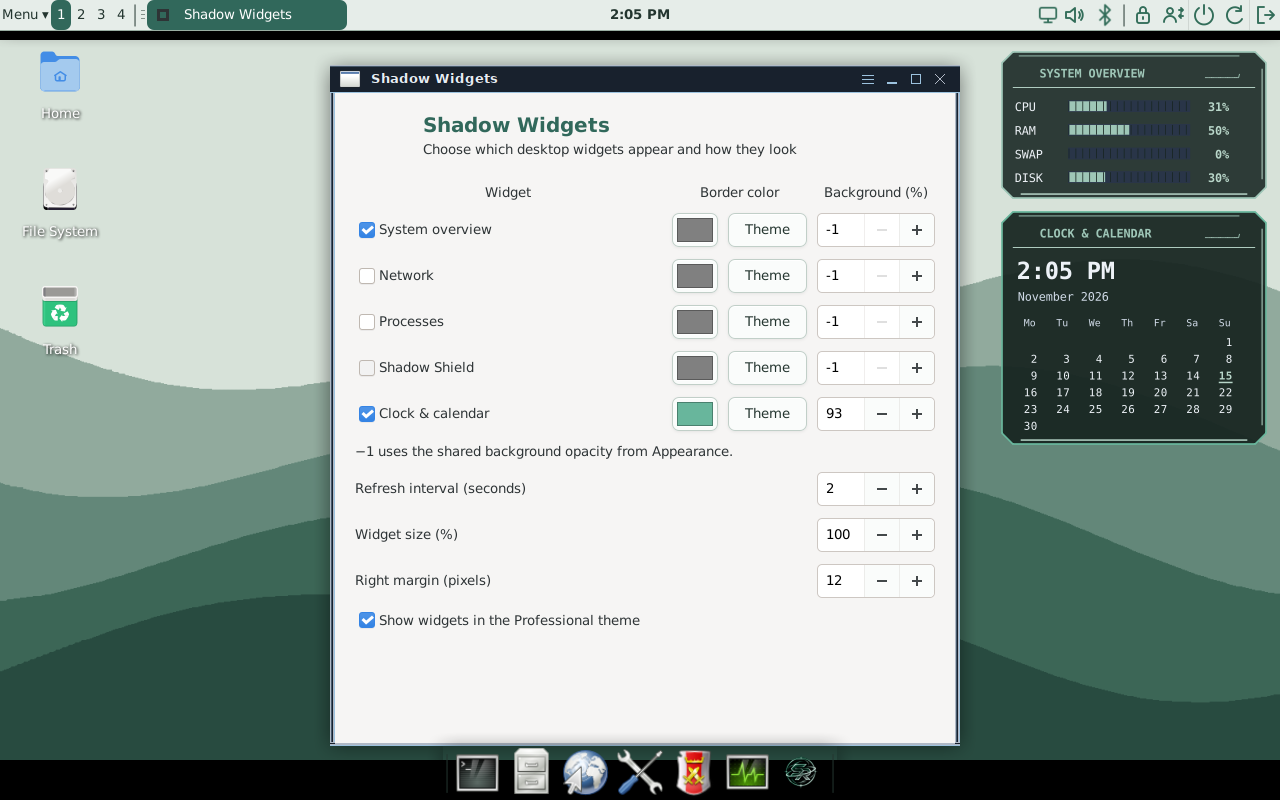
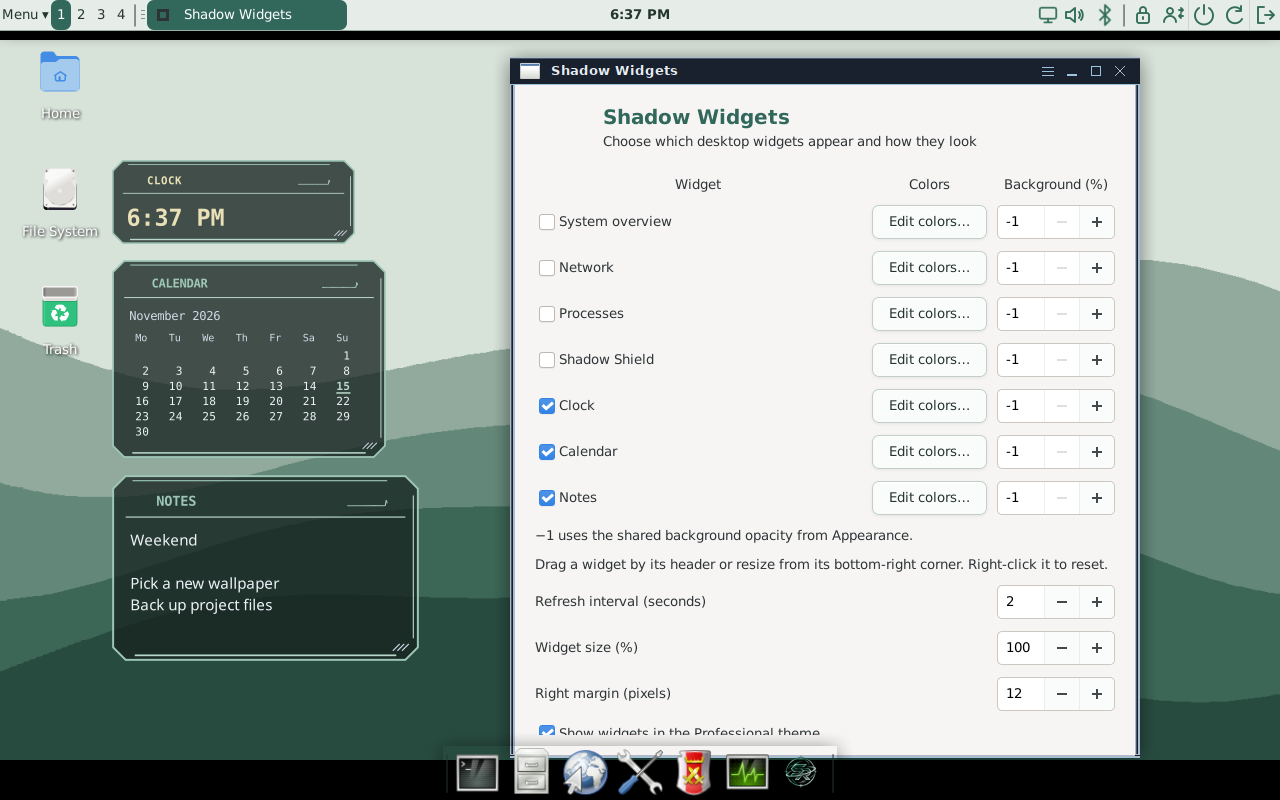
Refresh desktop and wallpaper galleries

diff --git a/website/index.html b/website/index.html
@@ -4,7 +4,6 @@
 </head><body>
 <main><img class="brand" src="https://raw.githubusercontent.com/AstraShadowsss/ShadowRealm-OS/main/branding/banner-neon.png" alt="ShadowRealm-OS SR logo and wordmark"><p class="badge">2026.11 beta 1 · AMD64</p><h1>A familiar Linux desktop with a style of its own.</h1><p class="lede">Built on Debian 13 and Xfce, ShadowRealm-OS brings applications, desktop controls and live status panels into one coordinated workspace. Try it from a USB drive or virtual machine before installing.</p><nav class="buttons"><a class="button primary" href="https://sourceforge.net/projects/shadowrealm-os/files/2026.11-beta1/ShadowRealm-OS-2026.11-beta1-r4-amd64.iso/download">Download the beta ISO</a><a class="button" href="https://astrashadowsss.github.io/ShadowRealm-OS/docs/installation.html">Installation guide</a><a class="button" href="https://github.com/AstraShadowsss/ShadowRealm-OS">Source and documentation</a><a class="button" href="https://shadowrealm-os.sourceforge.io/apt/">Updates &amp; Packages</a></nav><img class="screen" src="https://raw.githubusercontent.com/AstraShadowsss/ShadowRealm-OS/main/screenshots/desktop.png" alt="Neon desktop with panel, dock and four local widgets">
 <section class="grid"><article class="card"><h2>Make it yours</h2><p>Eight coordinated styles, editable dock shortcuts, independent wallpapers and configurable background transparency. Native third-party application icons stay recognizable.</p></article><article class="card"><h2>Everyday controls</h2><p>Network, audio, Bluetooth, accounts, appearance and software tools. The four desktop widgets show resources, traffic, processes and privacy-service status locally.</p></article><article class="card"><h2>Updates you control</h2><p>Debian and configured vendors provide their updates. A signed repository supplies custom desktop components and nine offline games. Software &amp; Updates shows available APT updates; Flatpak updates are separate.</p></article></section>
-<h2>A closer look</h2><img class="screen" src="https://raw.githubusercontent.com/AstraShadowsss/ShadowRealm-OS/main/screenshots/widgets.png" alt="Enlarged resource, network, process and Shadow Shield panels"><p><a href="https://astrashadowsss.github.io/ShadowRealm-OS/docs/widgets.html">What the widget readings mean</a></p><img class="screen" src="https://raw.githubusercontent.com/AstraShadowsss/ShadowRealm-OS/main/screenshots/wallpaper-styles.png" alt="Different coordinated wallpaper collections"><img class="screen" src="https://raw.githubusercontent.com/AstraShadowsss/ShadowRealm-OS/main/screenshots/system-tools.png" alt="Network, Shadow Shield and Software &amp; Updates controls">
-<img class="screen" src="https://raw.githubusercontent.com/AstraShadowsss/ShadowRealm-OS/main/screenshots/walking-theme-styles.png" alt="Walking-figure wallpapers with the current SR jacket emblem"><h2>Professional desktop</h2><img class="screen" src="https://raw.githubusercontent.com/AstraShadowsss/ShadowRealm-OS/main/screenshots/widget-settings-professional.png" alt="Professional theme showing widget colors, opacity and the optional clock and calendar" loading="lazy"><h2>Before you install</h2><p>This is a public beta. Back up your files, check the ISO checksum and test hardware from the live desktop. BIOS and UEFI installation paths are included; Secure Boot and dual-boot setups are not certified for this release. Optional disk encryption is configured during installation.</p><nav class="buttons"><a href="https://sourceforge.net/projects/shadowrealm-os/files/2026.11-beta1/SHA256SUMS/download">Checksums</a><a href="https://astrashadowsss.github.io/ShadowRealm-OS/docs/system-requirements.html">System requirements</a><a href="https://astrashadowsss.github.io/ShadowRealm-OS/docs/validation.html">Validation and limits</a><a href="https://astrashadowsss.github.io/ShadowRealm-OS/docs/roadmap.html">Roadmap</a><a href="https://github.com/AstraShadowsss/ShadowRealm-OS/issues">Report an issue</a></nav>
+<h2>Wallpaper collection</h2><img class="screen" src="https://raw.githubusercontent.com/AstraShadowsss/ShadowRealm-OS/main/screenshots/wallpaper-styles.png" alt="Red and Black, Black and Blue, Neon, and Hacker with four different wallpapers" loading="lazy"><h2>Seated City</h2><img class="screen" src="https://raw.githubusercontent.com/AstraShadowsss/ShadowRealm-OS/main/screenshots/seated-theme-styles.png" alt="Six colors of the Seated City wallpaper" loading="lazy"><h2>Control Center</h2><img class="screen" src="https://raw.githubusercontent.com/AstraShadowsss/ShadowRealm-OS/main/screenshots/control-center-neon.png" alt="Searchable Control Center in Neon" loading="lazy"><h2>Professional desktop</h2><img class="screen" src="https://raw.githubusercontent.com/AstraShadowsss/ShadowRealm-OS/main/screenshots/widget-settings-professional.png" alt="Professional theme showing separate Clock, Calendar and Notes widgets" loading="lazy"><h2>System tools</h2><img class="screen" src="https://raw.githubusercontent.com/AstraShadowsss/ShadowRealm-OS/main/screenshots/system-tools.png" alt="Network, Shadow Shield and Software &amp; Updates controls" loading="lazy"><p><a href="https://astrashadowsss.github.io/ShadowRealm-OS/docs/widgets.html">Desktop widgets guide</a></p><h2>Before you install</h2><p>This is a public beta. Back up your files, check the ISO checksum and test hardware from the live desktop. BIOS and UEFI installation paths are included; Secure Boot and dual-boot setups are not certified for this release. Optional disk encryption is configured during installation.</p><nav class="buttons"><a href="https://sourceforge.net/projects/shadowrealm-os/files/2026.11-beta1/SHA256SUMS/download">Checksums</a><a href="https://astrashadowsss.github.io/ShadowRealm-OS/docs/system-requirements.html">System requirements</a><a href="https://astrashadowsss.github.io/ShadowRealm-OS/docs/validation.html">Validation and limits</a><a href="https://astrashadowsss.github.io/ShadowRealm-OS/docs/roadmap.html">Roadmap</a><a href="https://github.com/AstraShadowsss/ShadowRealm-OS/issues">Report an issue</a></nav>
 <footer>Original project work: MIT. Bundled software, libraries, firmware, fonts and adapted artwork retain their own licenses. <a href="https://sourceforge.net/projects/shadowrealm-os/files/2026.11-beta1/">ISO, checksums and license notices</a>. <a href="https://sourceforge.net/projects/shadowrealm-os/files/2026.11-beta1/Sources/">Custom source and source-download guide</a>. <a href="https://github.com/AstraShadowsss/ShadowRealm-OS/releases/tag/2026.11-beta1-r2">Third-party source attachments on GitHub</a>. ShadowRealm-OS is an independent Debian-based project.</footer></main>
 </body></html>

diff --git a/docs/roadmap.md b/docs/roadmap.md
@@ -8,12 +8,12 @@ ShadowRealm-OS is a Debian 13 and Xfce desktop with a recognizable visual identi
 - Run a clean r4 installation and check first login, disk unlock when encrypted, graphical startup, Terminal, updates and normal shutdown. Record exact images and environments.
 - Make first login consistently show the intended desktop. Test the display, audio, Wi-Fi, Bluetooth and suspend behavior on representative hardware. Verify Secure Boot separately.
 
-## Control Center and professional theme
+## Desktop and system controls
 
-- Give the Control Center clear sections for Appearance, Desktop, Devices, Network, Privacy & Security, Accounts, and Software & Updates. Use the existing tools and eliminate duplicate routes where they add confusion.
+Desktop 0.2.11 includes searchable settings, the updated Professional theme, movable and resizable widgets, independent Clock and Calendar, saved Notes, and a dock auto-fit control. These are available through signed APT updates.
 - Show current state at the point of action. Explain whether Bluetooth is off or an adapter is missing and why an administrative action failed. Provide visible keyboard focus, readable toggle labels, and clear confirmation for changes that can interrupt connectivity.
-- Use a consistent layout across Professional and Neon. Refine spacing, type, selection and focus states in Professional. Check small displays and larger text, then check the same screens in both themes.
-- Complete dock editing and widget customization. Keep desktop shortcuts reorderable and removable. Add optional clock and calendar displays before externally backed weather or search.
+- Check the settings on smaller displays and with larger text. Carry the same focus and status conventions into the remaining system windows.
+- Add direct drag-and-drop dock editing. Keep all launchers removable. Add local search and make any online weather lookups optional.
 
 ## Transparency and optional tools
 
@@ -29,10 +29,9 @@ Disposable sessions and stronger isolation are longer-term research. They need t
 | Work | First deliverable | How to check it |
 | --- | --- | --- |
 | First login | Apply the branded wallpaper early and show a clear state while optional setup finishes | Time a first login and a later login on a fresh account |
-| Control Center | Redesign the landing page and carry over the existing settings | Find common tasks by keyboard and mouse in Professional and Neon at small and large scales |
+| Control Center | Check keyboard navigation, smaller displays, and large text across themes | Find and open common tools without clipped controls |
 | Dock | Drag launchers to reorder them in place. Drop shortcuts from the desktop or Applications menu at the desired position. Expand the dock as items are added. | Verify drop placement, launching, removal, and saved order across logins and upgrades |
-| Widgets | Add per-widget colors, readable scaling, placement and opacity controls | Text stays legible and independently configurable across themes |
-| Clock and calendar | Add optional desktop widgets that use local time and the existing calendar workflow | Check time zone, date rollover, sizing and keyboard access |
+| Widgets | Check multi-monitor placement, time-zone changes, and large text | Widgets remain reachable after monitor changes, and user layouts and notes persist |
 | Weather and search | Add a manual weather location and local app search, then evaluate file and online providers | Show which requests leave the device and allow the user to turn them off |
 | First-run transparency | Summarize installed software, services and update sources with links to detail | Users can dismiss the screen, reopen it, and reach the relevant controls |
 | Privacy controls | Audit outbound connections and add clear DNS, MAC randomization, permission and metadata controls where useful | Record what changes per connection, after reconnect and after reboot |

diff --git a/README.md b/README.md
@@ -35,51 +35,39 @@ The AMD64 ISO starts a live desktop so you can try it before installing. Open **
 - Customizable login backgrounds, optional original session chimes and three screensaver animations with standard XFCE locking.
 - Nine offline games, including Shadow Pinball, Skull Invaders, Shadow Runner, Circuit Chase, Snake, Shadow Spider Solitaire, Neon Ascent, Neon Breaker and Marble Reactor. Scores and settings stay local.
 
+**Desktop update 0.2.11** is available in Software & Updates. It adds separate Clock and Calendar widgets, local notes and dock auto-fit. [Release notes](CHANGELOG.md)
+
 ## Screenshots
 
-Desktop captures from ShadowRealm-OS, with gameplay and theme galleries below.
+### Wallpaper collection
 
-### Seated City themes
+![Red and Black, Black and Blue, Neon, and Hacker with four different wallpapers](screenshots/wallpaper-styles.png)
 
-![Six styles with the seated-figure wallpaper and Terminal](screenshots/seated-theme-styles.png)
+### Seated City
 
-### Professional
-
-![Professional desktop with Terminal](screenshots/professional.png)
-
-### Games
-
-![The nine games in action](screenshots/games-in-action.png)
-
-### Applications and settings
-
-| Application menu | Control Center |
-| --- | --- |
-| ![Application menu](screenshots/application-menu.png) | ![Control Center](screenshots/control-center.png) |
-
-### Live desktop panels
-
-![The four desktop widgets, enlarged](screenshots/widgets.png)
-
-System Overview shows resource use; Network shows interface traffic; Processes lists running programs; Shadow Shield summarizes firewall and privacy service status. [What each reading means](docs/widgets.md). The source is included so these local tools can be inspected and maintained.
-
-### Network, security and updates
-
-![Network, Shadow Shield and Software & Updates](screenshots/system-tools.png)
+![Six colors of the Seated City wallpaper](screenshots/seated-theme-styles.png)
 
 ### Control Center
 
 ![Searchable Control Center in Neon](screenshots/control-center-neon.png)
 
-![Control Center and desktop in Professional](screenshots/control-center-professional.png)
+![The same Control Center in Professional](screenshots/control-center-professional.png)
 
-![Widget settings and calendar in Professional](screenshots/widget-settings-professional.png)
+### Widgets and system tools
 
-### Wallpaper collection
+![Separate Clock, Calendar and Notes widgets alongside their settings](screenshots/widget-settings-professional.png)
 
-![Coordinated wallpapers beyond Seated City](screenshots/wallpaper-styles.png)
+![System Overview, Network, Processes and Shadow Shield](screenshots/widgets.png)
 
-![Walking-figure wallpapers with the current SR jacket emblem](screenshots/walking-theme-styles.png)
+![Network, Shadow Shield and Software & Updates](screenshots/system-tools.png)
+
+[Desktop widgets guide](docs/widgets.md)
+
+### Apps and games
+
+![Application menu](screenshots/application-menu.png)
+
+![The nine games in action](screenshots/games-in-action.png)
 
 ## Shadow Games for Android
 
